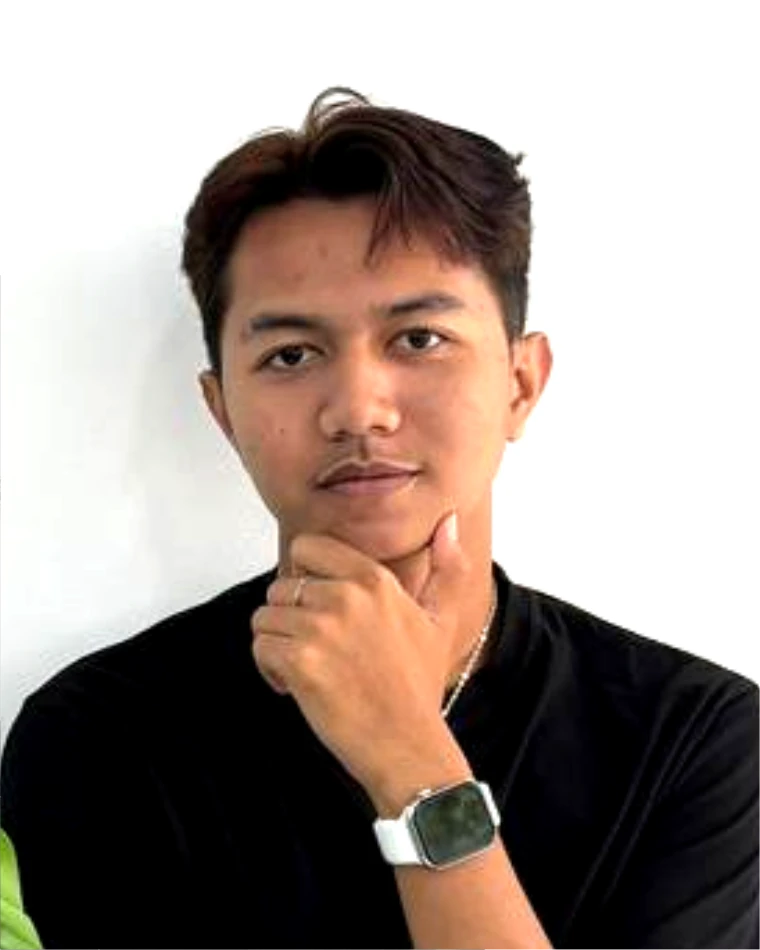
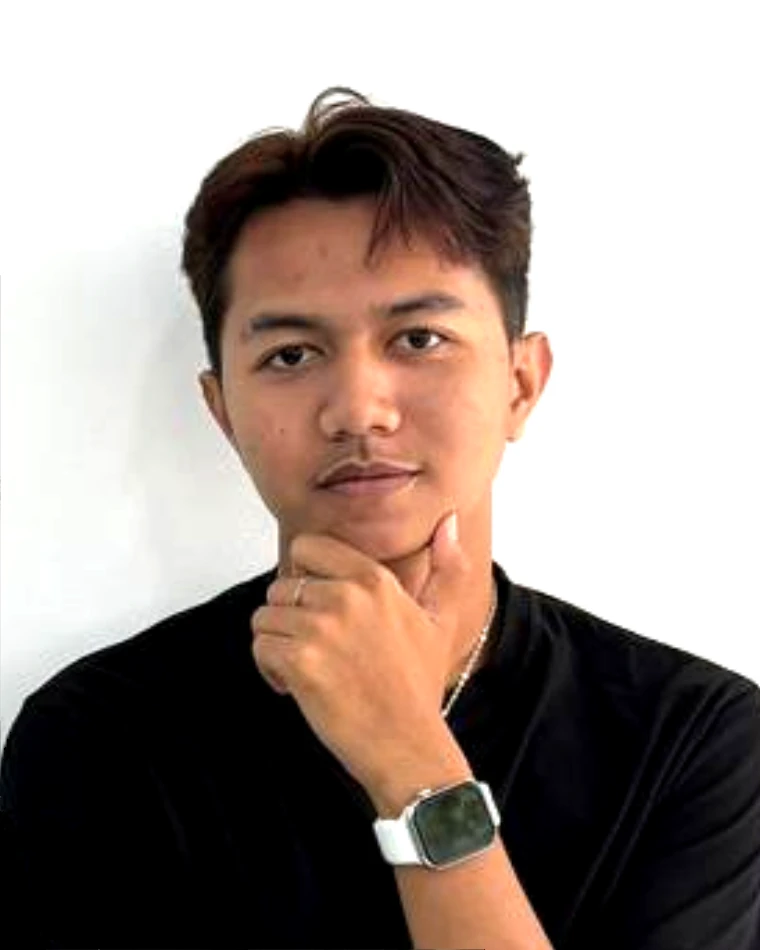
fix(capster): daun hijau di pojok foto Lukman dibersihkan
Potret Lukman punya daun tanaman menyembul di pojok kiri-bawah,
menempel pada baju hitamnya. Di desktop terpotong, tetapi di layar
mobile bingkai kartu lebih tinggi sehingga daun itu terlihat sebagai
"benda" nyasar. Piksel kehijauan di area itu disamakan dengan hitam
baju. Penanda versi dinaikkan ?v=5 -> ?v=6.

Changed region(s): [[0.9987, 0.7021, 1.0, 1.0], [0.0, 0.8547, 0.0605, 1.0]]

diff --git a/landing.html b/landing.html
@@ -531,19 +531,19 @@
       <h2 class="muncul">Our Capster</h2>
       <div class="kapster" id="kapsterDaftar">
         <div class="kapster-orang muncul">
-          <div class="avatar" aria-hidden="true"><picture><source srcset="assets/cena.webp?v=5" type="image/webp" /><img src="assets/cena.png?v=5" alt="Cena" loading="lazy" /></picture></div>
+          <div class="avatar" aria-hidden="true"><picture><source srcset="assets/cena.webp?v=6" type="image/webp" /><img src="assets/cena.png?v=6" alt="Cena" loading="lazy" /></picture></div>
           <div class="kapster-nama">Cena</div>
           <div class="kapster-peran">Capster</div>
           <button type="button" class="pil pil-garis" data-kapster="Cena">Pilih Cena</button>
         </div>
         <div class="kapster-orang muncul">
-          <div class="avatar" aria-hidden="true"><picture><source srcset="assets/lukman.webp?v=5" type="image/webp" /><img src="assets/lukman.png?v=5" alt="Lukman" loading="lazy" /></picture></div>
+          <div class="avatar" aria-hidden="true"><picture><source srcset="assets/lukman.webp?v=6" type="image/webp" /><img src="assets/lukman.png?v=6" alt="Lukman" loading="lazy" /></picture></div>
           <div class="kapster-nama">Lukman</div>
           <div class="kapster-peran">Capster</div>
           <button type="button" class="pil pil-garis" data-kapster="Lukman">Pilih Lukman</button>
         </div>
         <div class="kapster-orang muncul">
-          <div class="avatar" aria-hidden="true"><picture><source srcset="assets/wanda.webp?v=5" type="image/webp" /><img src="assets/wanda.png?v=5" alt="Wanda" loading="lazy" /></picture></div>
+          <div class="avatar" aria-hidden="true"><picture><source srcset="assets/wanda.webp?v=6" type="image/webp" /><img src="assets/wanda.png?v=6" alt="Wanda" loading="lazy" /></picture></div>
           <div class="kapster-nama">Wanda</div>
           <div class="kapster-peran">Capster</div>
           <button type="button" class="pil pil-garis" data-kapster="Wanda">Pilih Wanda</button>
@@ -785,8 +785,8 @@
 
     function gambarKapster(batang, nama) {
       return '<picture>'
-           + '<source srcset="' + batang + '.webp?v=5" type="image/webp" />'
-           + '<img src="' + batang + '.png?v=5" alt="' + esc(nama) + '" loading="lazy" />'
+           + '<source srcset="' + batang + '.webp?v=6" type="image/webp" />'
+           + '<img src="' + batang + '.png?v=6" alt="' + esc(nama) + '" loading="lazy" />'
            + '</picture>';
     }
 

diff --git a/pos.html b/pos.html
@@ -2459,8 +2459,8 @@
         /* WebP dulu, PNG sebagai cadangan: Safari baru mengenal WebP sejak
            iOS 14, dan iPad kasir yang lebih tua harus tetap melihat wajahnya. */
         const avatarHtml = foto
-          ? `<picture><source srcset="${foto}.webp?v=5" type="image/webp" />`
-            + `<img src="${foto}.png?v=5" alt="${escapeHtml(c.name)}" loading="lazy" /></picture>`
+          ? `<picture><source srcset="${foto}.webp?v=6" type="image/webp" />`
+            + `<img src="${foto}.png?v=6" alt="${escapeHtml(c.name)}" loading="lazy" /></picture>`
           : escapeHtml(initial);
         const card = document.createElement('div');
         card.className = `capster-card ${isSel ? 'is-selected' : ''}`;

diff --git a/rekap.html b/rekap.html
@@ -3063,7 +3063,7 @@
               <div class="capster-avatar-sm">${(() => {
                 const foto = { "cena": "assets/cena", "lukman": "assets/lukman", "wanda": "assets/wanda" }[(name || "").toLowerCase().trim()];
                 return foto
-                  ? `<picture><source srcset="${foto}.webp?v=5" type="image/webp" /><img src="${foto}.png?v=5" alt="${name}" loading="lazy" /></picture>`
+                  ? `<picture><source srcset="${foto}.webp?v=6" type="image/webp" /><img src="${foto}.png?v=6" alt="${name}" loading="lazy" /></picture>`
                   : name.charAt(0).toUpperCase();
               })()}</div>
               <div>

diff --git a/capster.html b/capster.html
@@ -949,8 +949,8 @@
       const capKey = (me.name || '').toLowerCase().trim();
       if (FOTO_KAPSTER[capKey]) {
         $('avatar').innerHTML = '<picture>'
-          + '<source srcset="' + FOTO_KAPSTER[capKey] + '.webp?v=5" type="image/webp" />'
-          + '<img src="' + FOTO_KAPSTER[capKey] + '.png?v=5" alt="' + (me.name || '') + '" />'
+          + '<source srcset="' + FOTO_KAPSTER[capKey] + '.webp?v=6" type="image/webp" />'
+          + '<img src="' + FOTO_KAPSTER[capKey] + '.png?v=6" alt="' + (me.name || '') + '" />'
           + '</picture>';
       } else {
         $('avatar').textContent = me.name.charAt(0).toUpperCase();
